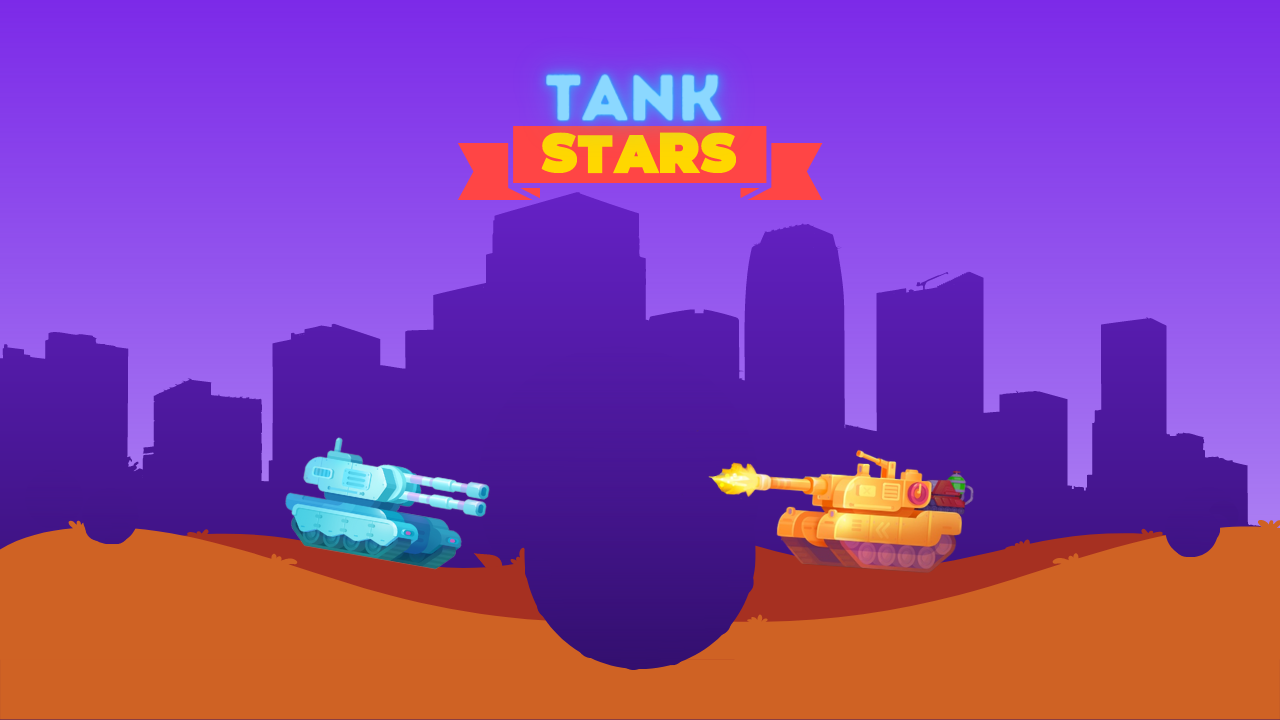
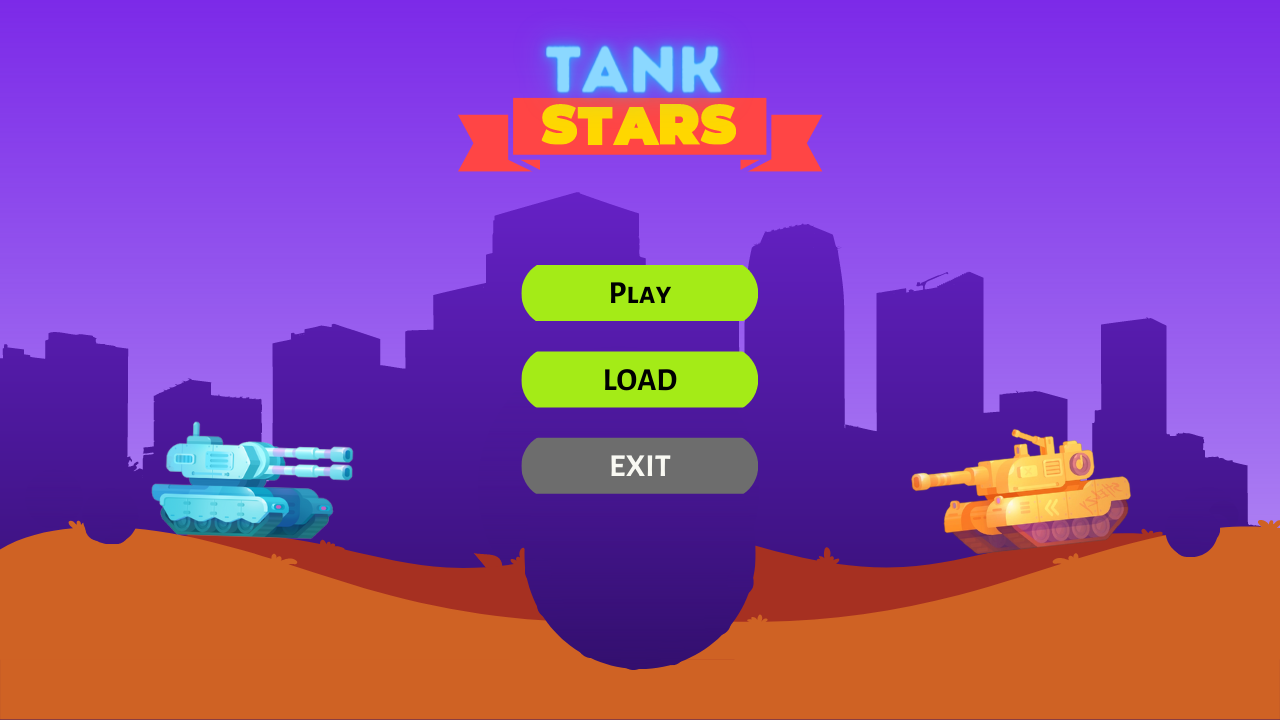
Add menu to StartScreen

diff --git a/core/src/com/gdx/tankstars/screen/StartScreen.java b/core/src/com/gdx/tankstars/screen/StartScreen.java
@@ -3,14 +3,16 @@ package com.gdx.tankstars.screen;
 import com.badlogic.gdx.Gdx;
 import com.badlogic.gdx.Screen;
 import com.badlogic.gdx.graphics.Texture;
+import com.badlogic.gdx.math.Rectangle;
 import com.gdx.tankstars.TankStarsGame;
 
 public class StartScreen implements Screen {
 
     private TankStarsGame game;
     private Texture startScreenTexture;
-    private float timeCounter;
-
+    private final Rectangle buttonPlay_rect = new Rectangle(522, 266, 236, 56);
+    private final Rectangle buttonLoad_rect = new Rectangle(522, 353, 236,  56);
+    private final Rectangle buttonExit_rect = new Rectangle(522, 439, 236,  56);
     public StartScreen(TankStarsGame game) {
         this.game = game;
     }
@@ -23,16 +25,36 @@ public class StartScreen implements Screen {
 
     @Override
     public void render(float delta) {
-        timeCounter += delta;
+        if (Gdx.input.justTouched()) {
+            int x = Gdx.input.getX();
+            int y = Gdx.input.getY();
+
+            if (buttonPlay_rect.contains(x, y)) {
+                System.out.println("Select play button");
+                game.setScreen(new MenuScreen(game));
+                this.dispose();
+            }
+            else if (buttonLoad_rect.contains(x, y)) {
+                System.out.println("Select load button");
+                //game.setScreen(new LoadScreen(game));
+                //this.dispose();
+            }
+            else if (buttonExit_rect.contains(x, y)) {
+                System.out.println("Select exit button");
+                this.dispose();
+                System.exit(0);
+            }
+            else {
+                System.out.printf("StartScreen: x: %d  y:%d\n", x, y);
+            }
+
+
+        }
 
         game.getBatch().begin();
         game.getBatch().draw(startScreenTexture, 0, 0);
         game.getBatch().end();
 
-        if (timeCounter > 5) {
-            game.setScreen(new MenuScreen(game));
-            this.dispose();
-        }
     }
 
     @Override

diff --git a/core/src/com/gdx/tankstars/screen/MenuScreen.java b/core/src/com/gdx/tankstars/screen/MenuScreen.java
@@ -13,6 +13,8 @@ public class MenuScreen implements Screen {
     private ShapeRenderer shapeRenderer;
     private Texture menuScreen;
     private Texture button1;
+    private final Rectangle button1_rect = new Rectangle(875, 42, 333, 87);
+
 
 
     public MenuScreen(TankStarsGame game) {
@@ -29,14 +31,13 @@ public class MenuScreen implements Screen {
     @Override
     public void render(float delta) {
         if (Gdx.input.justTouched()) {
-            Rectangle button1_rect = new Rectangle(875, 42, 333, 87);
 
-            float x = Gdx.input.getX();
-            float y = Gdx.input.getY();
+            int x = Gdx.input.getX();
+            int y = Gdx.input.getY();
 
             if (button1_rect.contains(x, y)) {
                 game.setScreen(new Tank1Screen(game));
-                button1.dispose();
+                this.dispose();
             }
         }
 
@@ -69,6 +70,7 @@ public class MenuScreen implements Screen {
 
     @Override
     public void dispose() {
-
+        menuScreen.dispose();
+        button1.dispose();
     }
 }

diff --git a/core/src/com/gdx/tankstars/screen/TankScreen.java b/core/src/com/gdx/tankstars/screen/TankScreen.java
@@ -65,7 +65,7 @@ public class TankScreen implements Screen  {
                 this.dispose();
             }
             else {
-                System.out.printf("x: %d  y:%d\n", x, y);
+                System.out.printf("TankScreen: x: %d  y:%d\n", x, y);
             }
         }
 
